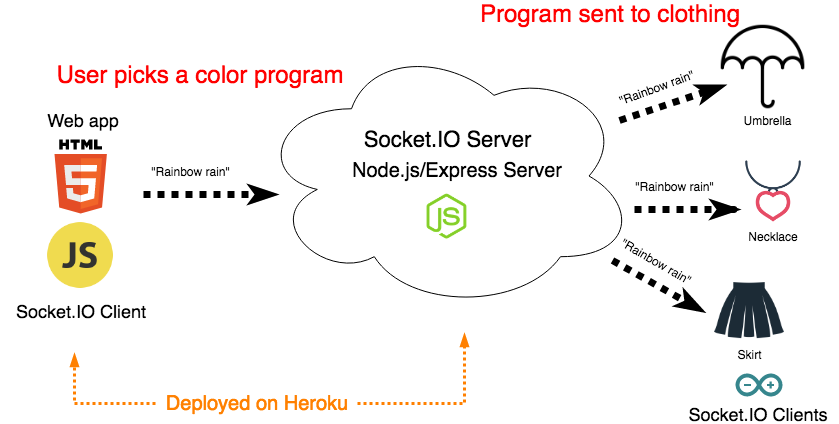
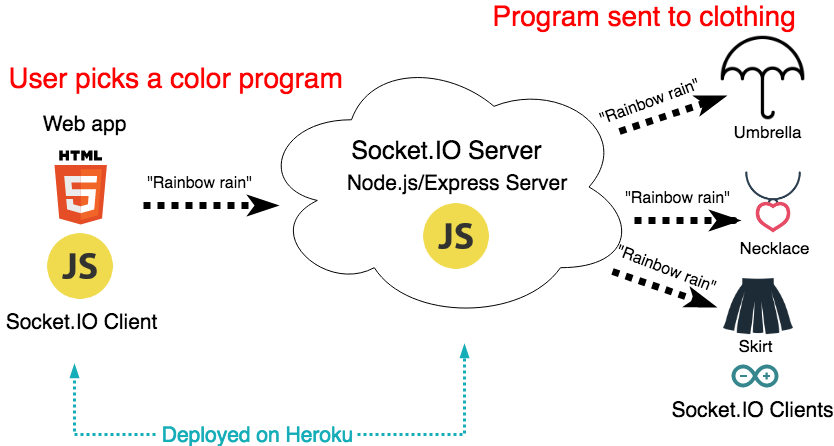
tweaks

diff --git a/haute-codeture.md b/haute-codeture.md
@@ -1,4 +1,4 @@
-theme: Poster, 7
+theme: Poster Custom
 footer: @stephaniecodes
 
 # Haute Codeture
@@ -13,11 +13,13 @@ footer: @stephaniecodes
 
 ---
 
+[.build-lists: true]
+
 # Hi, I'm Stephanie.
 
 * Frontend Developer @ [Werkspot](https://werkspot.nl)
 
-- Organizer of [Stupid Hackathon Amsterdam](http://www.stupidhackathon.wtf)<br><br><br>![inline 100%](stupid-hack.jpg)
+* Organizer of [Stupid Hackathon Amsterdam](http://www.stupidhackathon.wtf)<br><br><br>![inline 100%](stupid-hack.jpg)
 
 ^I live in Amsterdam.
 
@@ -64,24 +66,26 @@ footer: @stephaniecodes
 
 ^ Art meant to be playful
 
-^ Installations meant to be triggered by a viewer
+^ Created installations meant to be triggered by a viewer
 
-^ The viewer is invited to choose a drawing tool (color, charcoal, or pencil) and place it in the special holder mounted on the assemblage.
+^ The viewers's experience was integrated into the overall effect of the work itself
+
+^ It intentionally blurred the line between artist and viewer
+
+^ The viewer is invited to choose a drawing tool (color, charcoal, or pencil) and place it in a special holder.
 
 ^ When put into motion, the turning wheels would activate the chosen drawing tool, moving it along a piece of paper.
 
-^ The result would be a work of art in itself. The artwork created was of a necessarily unforeseen nature, differing each and every time, and directly affected by the random movement of the asymmetrical mechanical device.
+^ The result would be a work of art in itself.
 
 ^ No longer just watching a process, the viewer, by choosing an artistic instrument, plays a role in the creation of an entirely new work of art.
-
-
 
 ---
 
 > I wanted something ephemeral that would pass like a falling star...The work had to just transpire, make people dream and talk, and that would be all.
 > -- Jean Tinguely
 
-^ When I was at the exhibit, this quote stood out to me.
+^ When I was at the exhibit, this quote by Tinguely stood out to me.
 
 ^ Really liked idea of a temporary experience that connects artist and viewer
 
@@ -161,13 +165,13 @@ footer: @stephaniecodes
 
 ![left](IMG_1351.JPG)
 
-# First big **Arduino** project
+# Easy project, right?
 
----
+^ Already had a plan
 
-![](haute-codeture-video.mp4)
+^ Applying similar model as first project
 
-^describe video
+^ No surprises I thought
 
 ---
 
@@ -177,15 +181,23 @@ footer: @stephaniecodes
 
 ---
 
-## _*Building stuff is all about*_ iteration
+## Building stuff is all about _*iteration*_
 
 ---
+
+![loop](haute-codeture-video.mp4)
+
+^describe video
+
+---
+
+[.build-lists: true]
 
 # Project Plan:
 
 * Web app for user input
 * LEDs + microcontroller in clothing
-* Relay messages from app to clothing
+* Socket.IO: relay messages from app to clothing
 
 ^Create web app for users
 
@@ -228,9 +240,7 @@ footer: @stephaniecodes
 
 [.build-lists: true]
 
-# Talk to my clothes
-
-## Socket.IO
+# Socket.IO
 
 * Used it in my Raspberry Pi art project
 * Already knew that it works
@@ -242,7 +252,7 @@ footer: @stephaniecodes
 
 ---
 
-![fit](led-couture-schema-socketio-heroku.png)
+![130%](led-couture-schema-socketio-heroku.png)
 
 ---
 
@@ -314,9 +324,9 @@ footer: @stephaniecodes
 
 ---
 
-### _Socket.IO is_ great _for the web!_
+### Socket.IO is _great_ for the web!
 
-### _but is the_ best _fit for my IoT Project?_
+### but is the _best_ fit for my IoT Project?
 
 ^Made for web applications communicated over HTTP
 
@@ -418,7 +428,9 @@ A lightweight messaging protocol optimized for high-latency or unreliable networ
 
 ![inline 102%](qos.png)[^ ]
 
-[^ ]: [http://internetofthingsagenda.techtarget.com/definition/MQTT-MQ-Telemetry-Transport](http://internetofthingsagenda.techtarget.com/definition/MQTT-MQ-Telemetry-Transport)
+[^ ]:
+
+  [http://internetofthingsagenda.techtarget.com/definition/MQTT-MQ-Telemetry-Transport](http://internetofthingsagenda.techtarget.com/definition/MQTT-MQ-Telemetry-Transport)
 
 ^QoS: agreement between sender and receiver of a message regarding the guarantees of delivering a message
 
@@ -444,7 +456,7 @@ A lightweight messaging protocol optimized for high-latency or unreliable networ
 
 ---
 
-# Setup MQTT Client + Broker
+# Setup MQTT Clients + Broker
 
 ![inline](mqtt-pubsub-diagram.png)
 
@@ -503,23 +515,19 @@ rainbowButton.addEventListener("click", () => sendEvent("rainbow"));
 ```c
 #include <MQTTClient.h>
 
-WiFiClient net;
-MQTTClient client;
-
 void setup() {
   WiFi.begin(SSID, PW);
   // Connect to broker, subscribe to topic "lights"
-  client.begin(MQTT_BROKER_URL, net);
-  client.connect("necklace", KEY, TOKEN);
-  client.subscribe("lights");
-
+  MQTTClient.begin(MQTT_BROKER_URL, WiFiClient);
+  MQTTClient.connect("necklace", KEY, TOKEN);
+  MQTTClient.subscribe("lights");
   // Called when message received
-  client.onMessage(messageReceived);
+  MQTTClient.onMessage(messageReceived);
 }
 
 void loop() {
   // Sends/receives messages
-  client.loop();
+  MQTTClient.loop();
 }
 ```
 
@@ -668,17 +676,17 @@ ws.createServer({ server: httpServer }, aedes.handle);
 
 ![](ballmer.gif)
 
----
-
-# Iteration #4
-
-# <br><br><br><br><br><br>
-
 ^Awesome!
 
 ^I conquered my devops fears and it worked!
 
 ^I was done right?
+
+---
+
+# Iteration #4
+
+# <br><br><br><br><br><br>
 
 ---
 
@@ -703,7 +711,13 @@ ws.createServer({ server: httpServer }, aedes.handle);
 * High speed, reliable Wifi 🤩
 * 2X cost of Feather Huzzah
 
-^Doesn't have to yield to wifi core, steady wifi throughput
+^ Low power management
+
+^ Separate Wifi module
+
+^ So doesn't have to yield to wifi core, steady wifi throughput
+
+^ 2X cost of Feather Huzzah
 
 ---
 
@@ -727,11 +741,9 @@ ws.createServer({ server: httpServer }, aedes.handle);
 
 ^It can take many iterations to get something right
 
-^Or where you want it to be and that's ok.
-
 ^I messed a bunch during this with trying to figure out devops
 
-^and doing sloppy soldering,
+^and sloppy soldering,
 
 ^and it was super frustrating,
 
